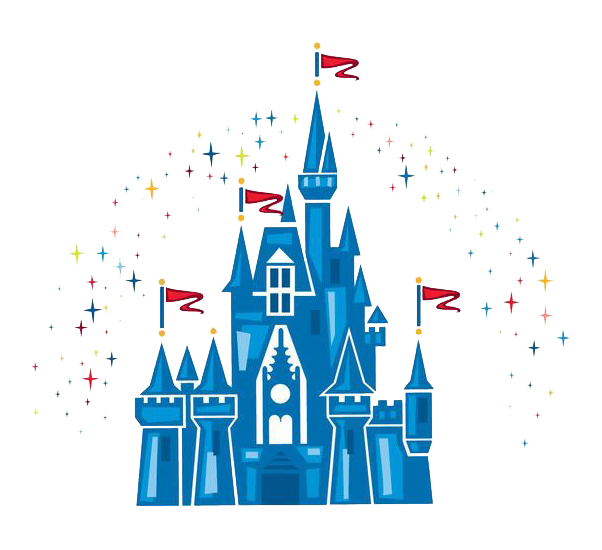
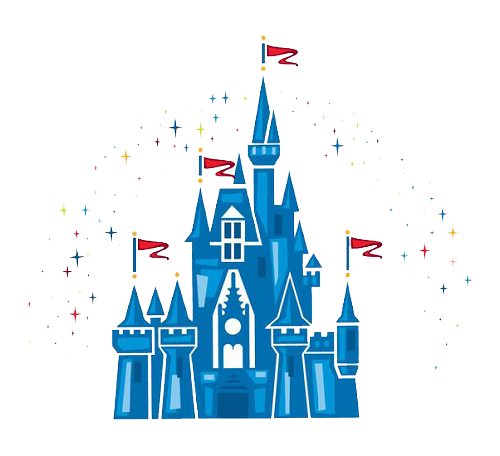
positioned castle graphic, put graphics in animation container

diff --git a/styles/style.css b/styles/style.css
@@ -14,14 +14,16 @@
 
 .entrance {
   max-width: 1000px;
+  min-height: 50vh;
   margin: 20px auto;
+  position: relative;
 }
 
 .container {
   font-family: 'Montserrat', sans-serif;
   max-width: 1000px;
   padding: 20px;
-  margin: 0 auto;
+  margin: 20px auto;
 }
 
 h1,
@@ -100,4 +102,41 @@ a {
 
 .park {
   font-weight: bold;
+}
+
+.castle {
+  position: absolute;
+  top: 50%;
+  left: 50%;
+  margin: -250px 0 0 -228px;
+  z-index: 3
+}
+
+.firework {
+  position: absolute;
+  z-index: 2;
+}
+
+/*===========================
+
+
+  Animation Styling
+
+
+==============================*/
+
+.red {
+  width: 300px;
+  top: 15px;
+  animation: explode 5s linear infinite;
+}
+
+
+@keyframes explode {
+  from {
+    transform: translateZ(-100px);
+  }
+  to {
+    transform: translateZ(100px);
+  }
 }
